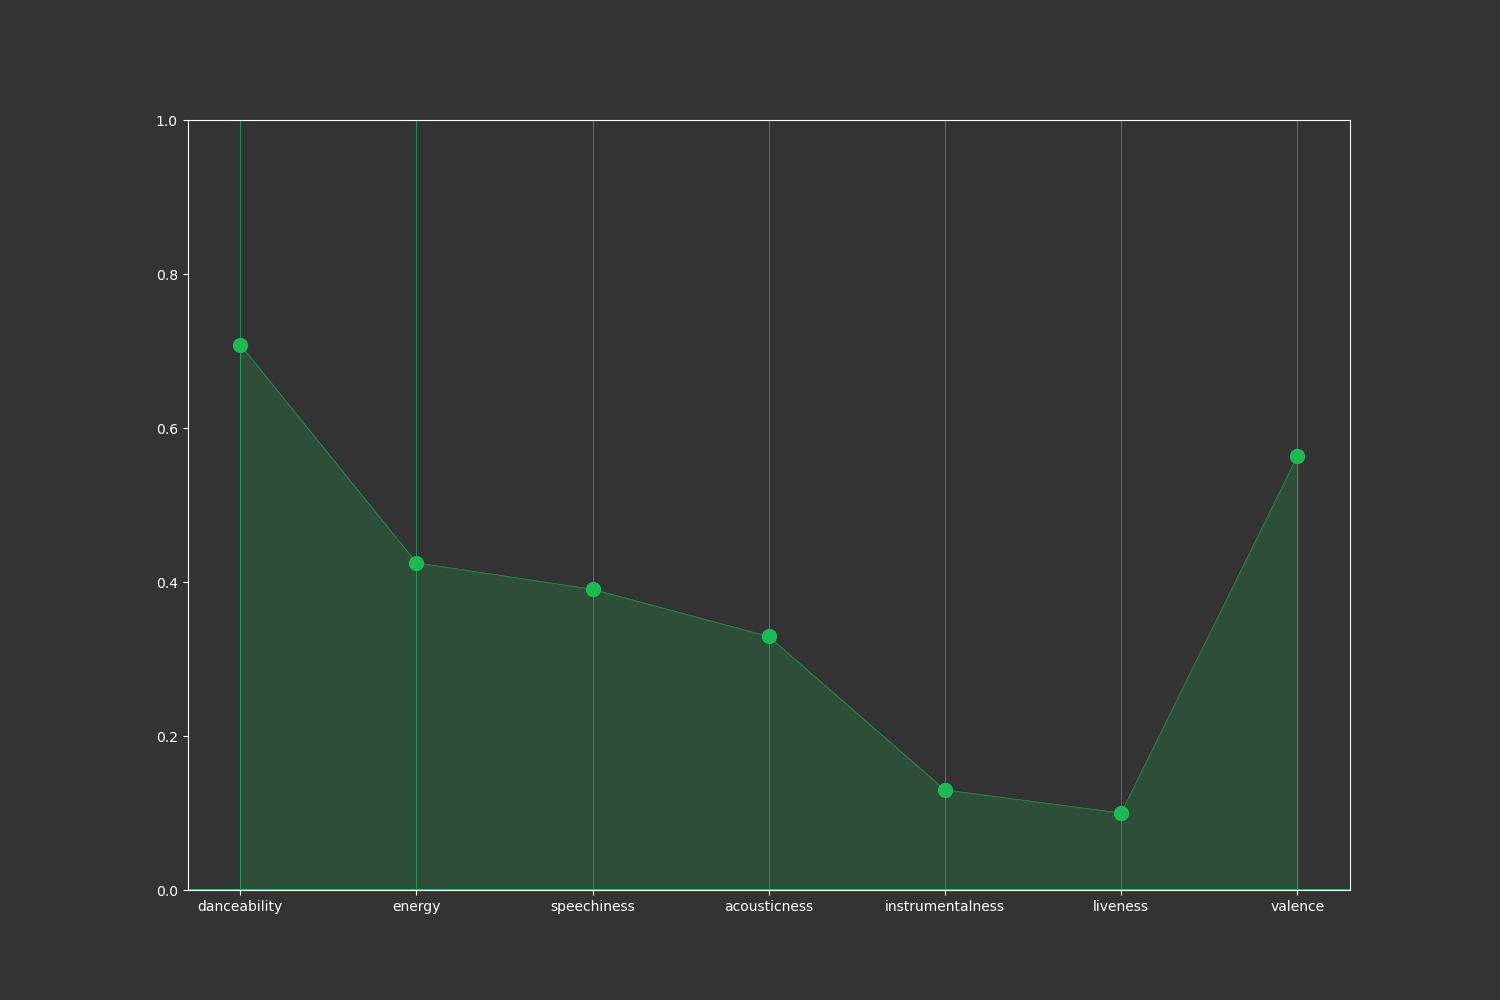
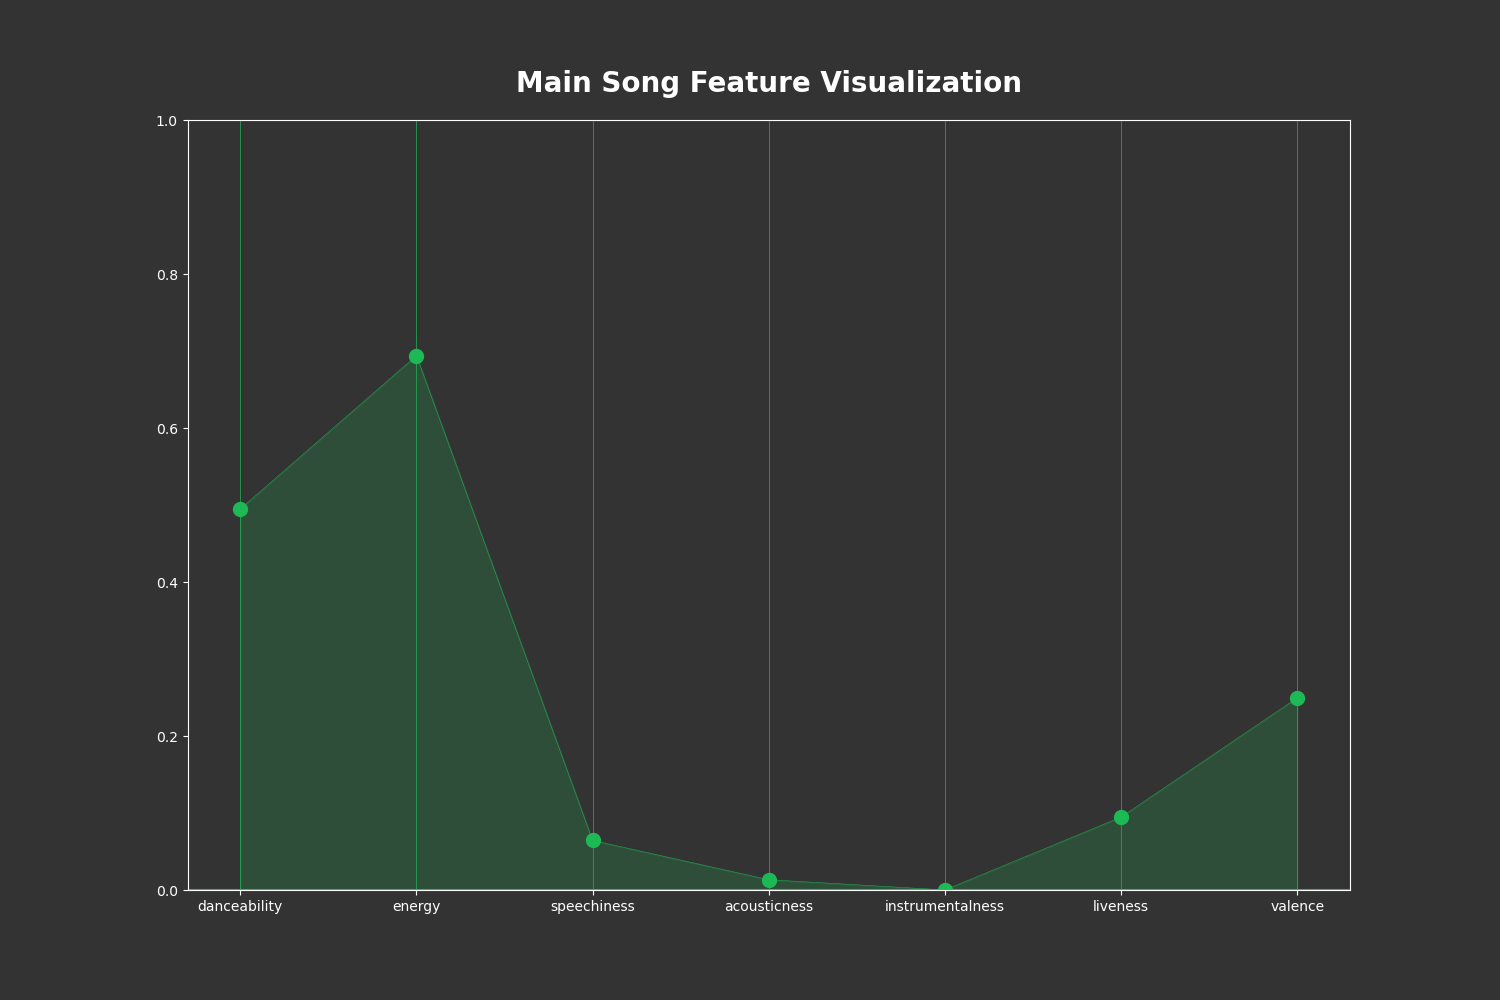
update website

Changed region(s): [[0.1533, 0.341, 0.8893, 0.899], [0.3373, 0.062, 0.6747, 0.093]]

diff --git a/App/templates/index2.html b/App/templates/index2.html
@@ -43,7 +43,16 @@
             font-size: 24px;
             color: #1DB954;
         }
-    
+        
+        h3 {
+            text-align: left;
+            margin-top: 50px;
+            margin-bottom: 10px;
+            font-weight: 500;
+            font-size: 20px;
+            color: white;
+        }
+
         .form-group label, .track-info label {
             font-weight: 500;
             font-size: 18px;
@@ -280,7 +289,9 @@
                     </div>
                         <img src="/static/images/feature_graph.png" alt="Plot" style="width: 100%; height: 50%;"><!-- to adjust the size of the image change width or height!-->
                         <p></p>
-                        <label for="track-id-output" style="color: #cbcecb;">Track Information:</label>
+                        <h3>
+                            <label for="track-id-output" style="color: #cbcecb;">Track Information:</label>
+                        </h3>
                     <div class="table-container mt-2">
                         <table>
                         <thead>
@@ -350,7 +361,9 @@
                         </table>
                     </div>
                     <p></p>
-                    <p style="color: #cbcecb;">Recommendation: {{ output1 }}</p>
+                    <h3>
+                        <p style="color: #cbcecb;">Recommendation: {{ output1 }}</p>
+                    </h3>
                 </div>    
             </div>
             

diff --git a/App/Assi.py b/App/Assi.py
@@ -42,7 +42,7 @@ def generate_feature_graph(file_path, x, y):
     mean_tempo = np.mean(y)
 
     fig, ax = plt.subplots(figsize=(15, 10))
-    ax.set_title("Main Song Feature Visualization", color='white')
+    ax.set_title("Main Song Feature Visualization", color='white', fontsize=20, fontweight='bold', pad=20)
     ax.plot(x, y, color='#1DB954', linewidth=0.3)
     ax.plot(x, y, 'o', color='#1DB954', linewidth=0.3, markersize=10)  # Green points
     ax.axhline(y=0, color='#1DB954')  # Green horizontal line
@@ -324,13 +324,14 @@ def getdata():
             if pred[0] > 0 and prediction > 0.5:
                 print ("HIT reached")
                 output1 = "You already hava a HIT prediction but maybe try to change " + str(feature) +" by " + str(value) + " to improve your song."
-            #elif : 
-            
+            elif prediction > 0.5 and failsafe == True: 
+                print("HIT already reached")
+                output1 = 'Your Song has already HIT potential'
             else:
                 print ("FLOP reached")
                 output1 = "Hey, maybe try to change " + str(feature) +" by " + str(value) + " to reach a HIT prediction."
     
-    #---------------------------------------------------------------------------------
+    #--------------------------------------------------------------------------------- 
 
     # Process the track data as needed
     return render_template('index2.html', 
@@ -355,6 +356,6 @@ def getdata():
                         )
 
 if __name__ == '__main__':
-    app.run(debug=True)
+    app.run(debug=True) 
 
 
